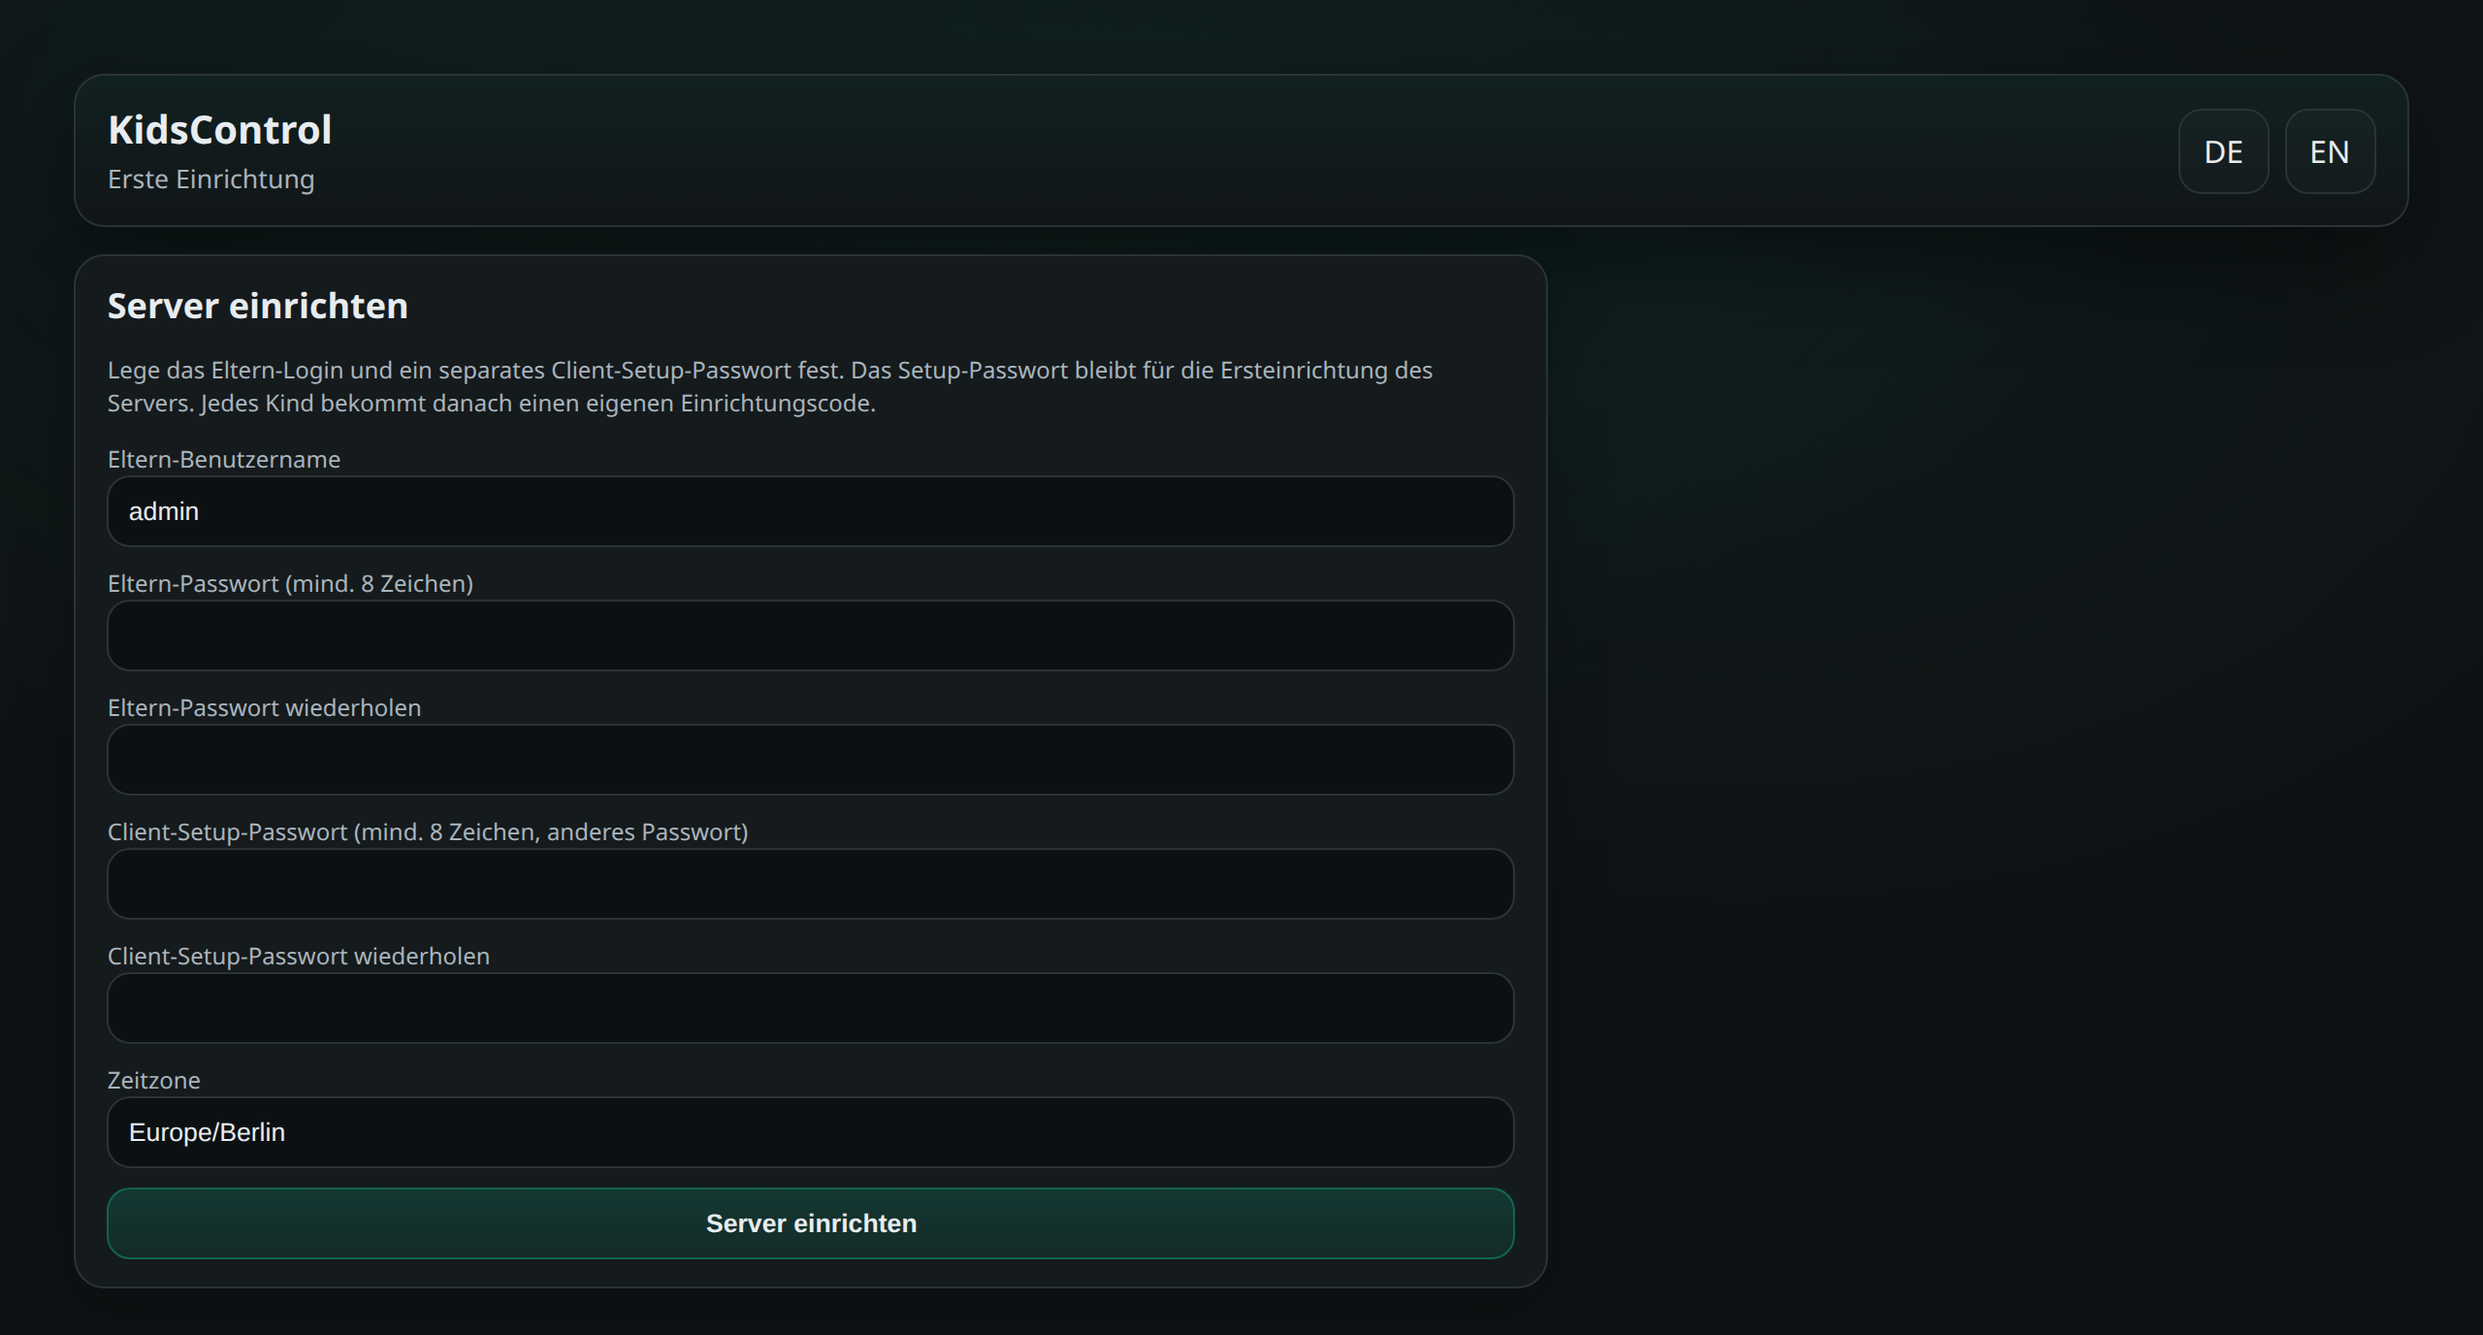
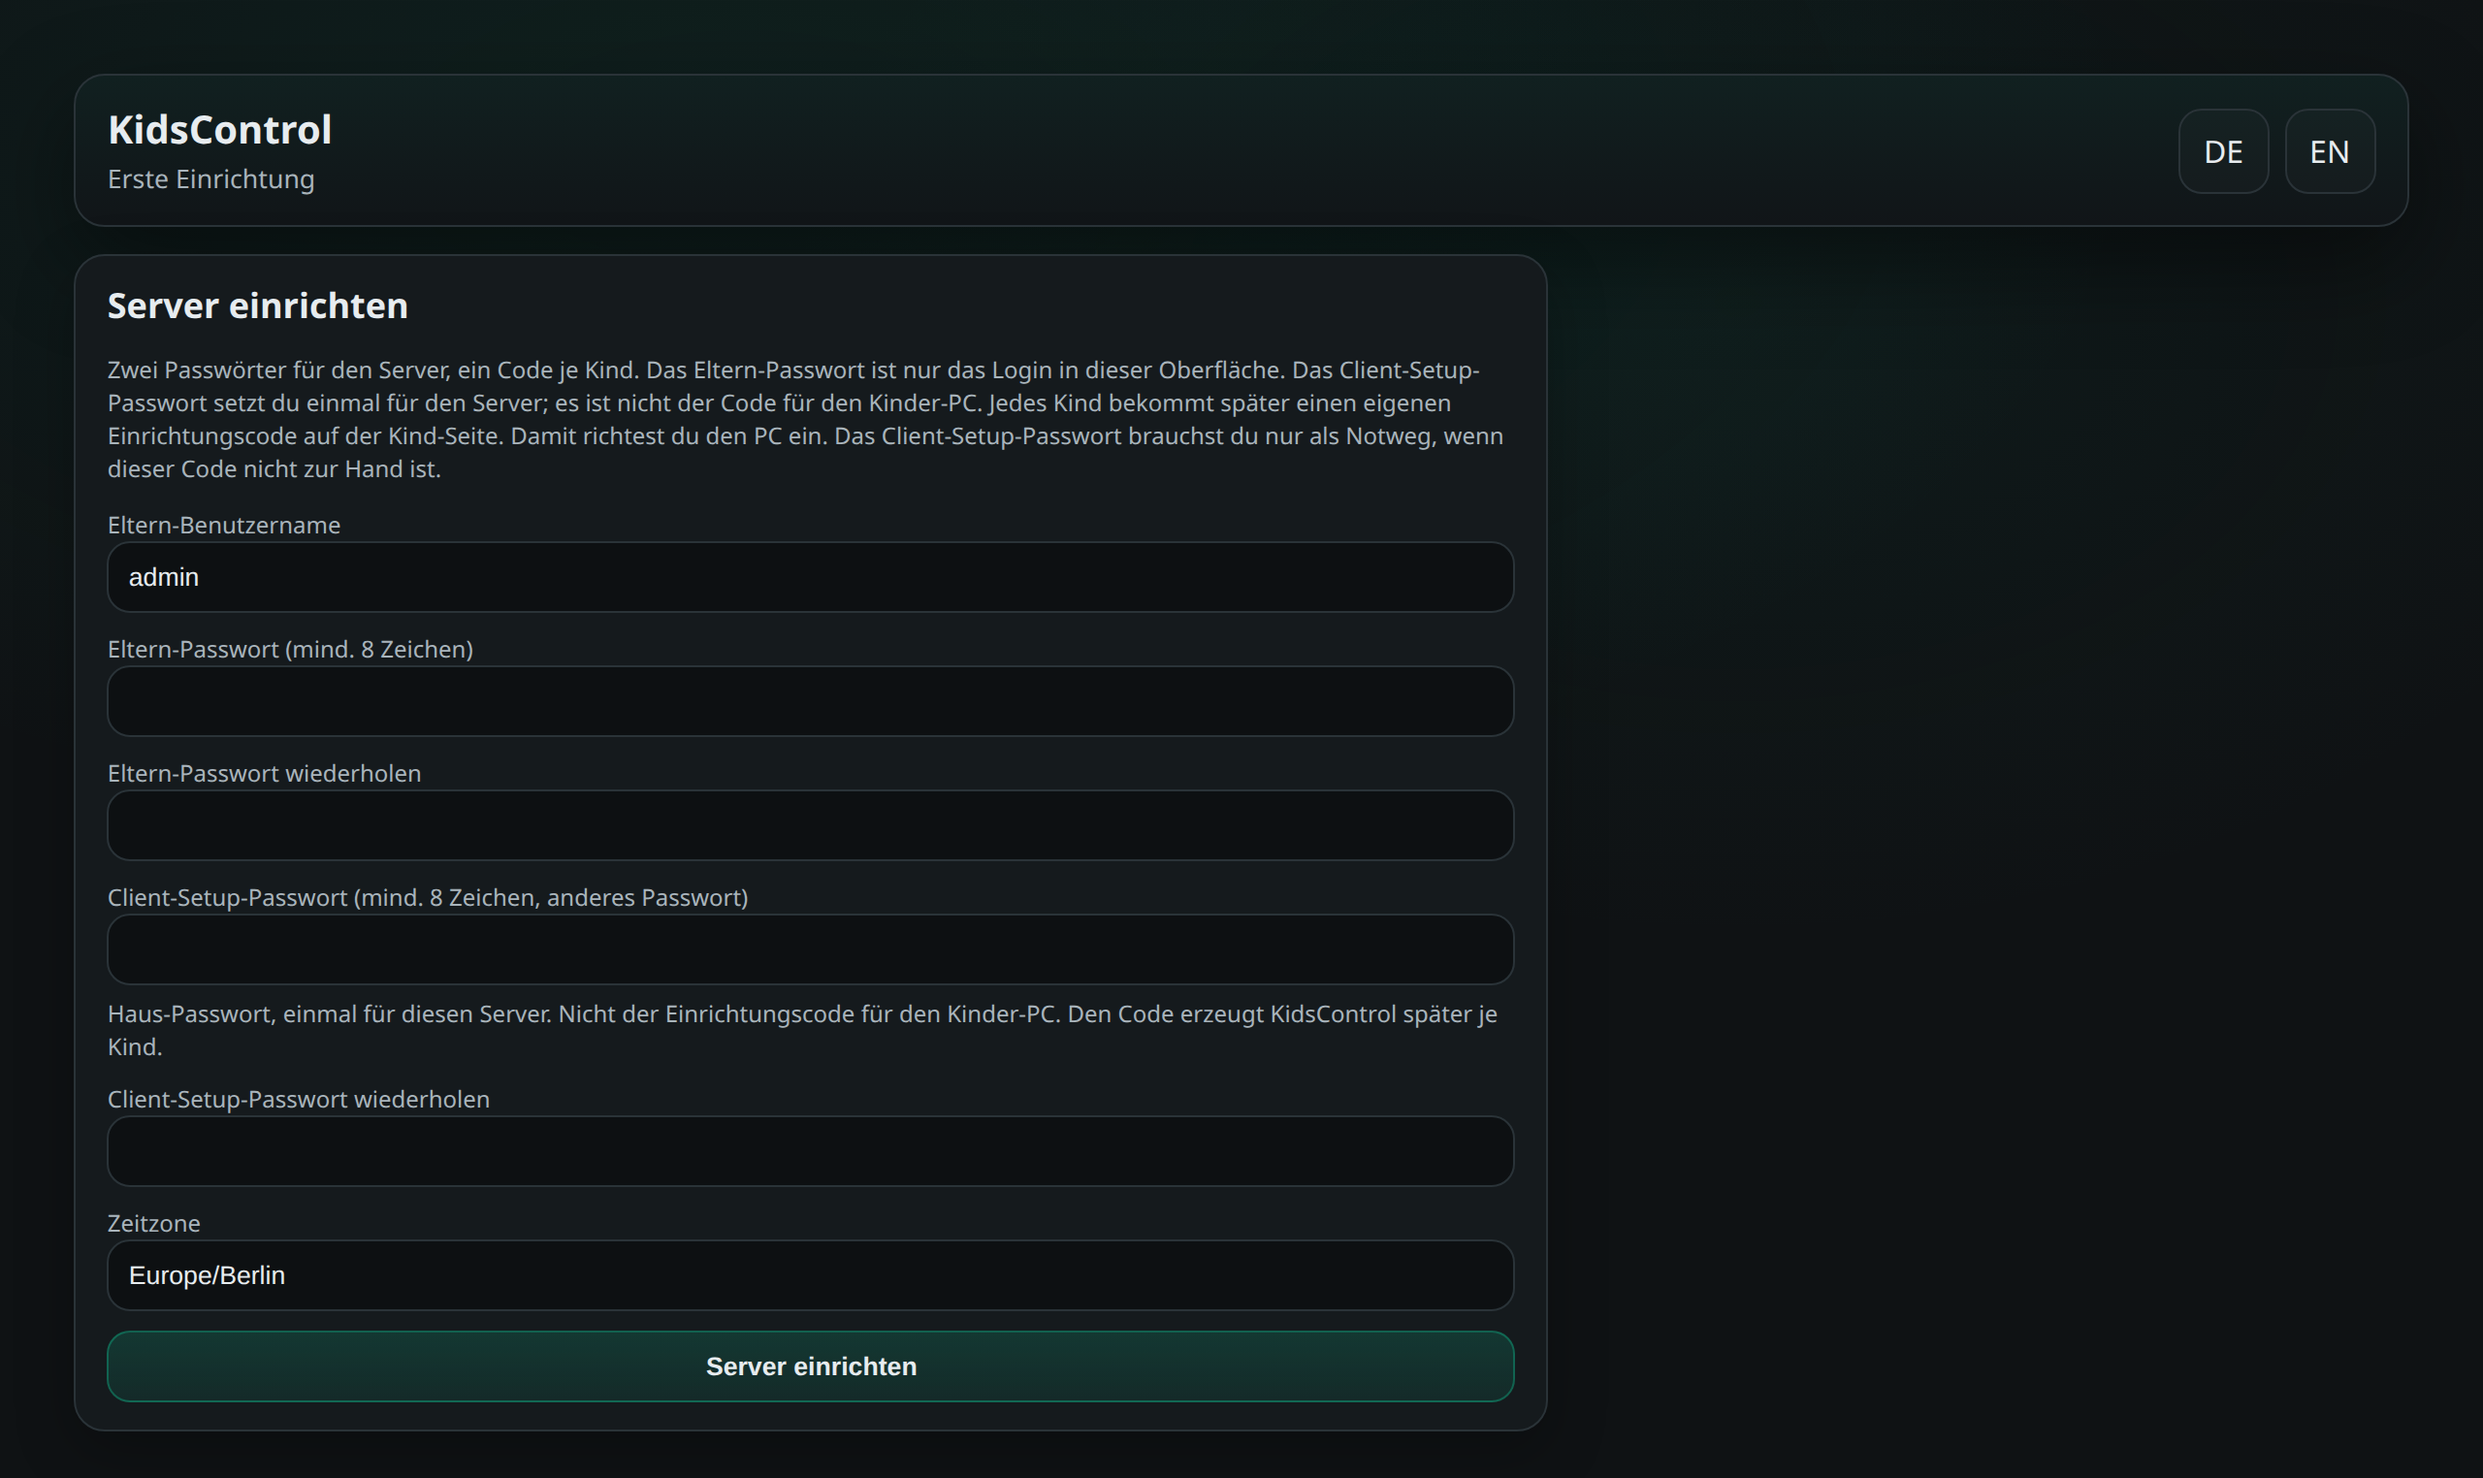
Spell out parent password, household setup password, and per-child code. (#17)
The first-run page, child page, README, and setup docs now say the client setup password is a one-time household secret, not the enrollment code used on the child PC.

diff --git a/app/i18n.py b/app/i18n.py
@@ -13,18 +13,19 @@ STRINGS: dict[str, dict[str, str]] = {
         "sign_in": "Anmelden",
         "setup_title": "Server einrichten",
         "setup_sub": "Erste Einrichtung",
-        "setup_intro": "Lege das Eltern-Login und ein separates Client-Setup-Passwort fest. Das Setup-Passwort bleibt für die Ersteinrichtung des Servers. Jedes Kind bekommt danach einen eigenen Einrichtungscode.",
+        "setup_intro": "Zwei Passwörter für den Server, ein Code je Kind. Das Eltern-Passwort ist nur das Login in dieser Oberfläche. Das Client-Setup-Passwort setzt du einmal für den Server; es ist nicht der Code für den Kinder-PC. Jedes Kind bekommt später einen eigenen Einrichtungscode auf der Kind-Seite. Damit richtest du den PC ein. Das Client-Setup-Passwort brauchst du nur als Notweg, wenn dieser Code nicht zur Hand ist.",
         "admin_user": "Eltern-Benutzername",
         "admin_password": "Eltern-Passwort (mind. 8 Zeichen)",
         "admin_password_repeat": "Eltern-Passwort wiederholen",
         "setup_password": "Client-Setup-Passwort (mind. 8 Zeichen, anderes Passwort)",
+        "setup_password_hint": "Haus-Passwort, einmal für diesen Server. Nicht der Einrichtungscode für den Kinder-PC. Den Code erzeugt KidsControl später je Kind.",
         "setup_password_repeat": "Client-Setup-Passwort wiederholen",
         "timezone": "Zeitzone",
         "setup_submit": "Server einrichten",
         "setup_done_title": "Einrichtung gespeichert",
         "setup_done_sub": "Neu starten",
         "setup_done_body": "Starte den Server neu, damit das Sitzungsgeheimnis aus der Konfiguration geladen wird. Danach kannst du dich mit dem Eltern-Passwort anmelden.",
-        "setup_done_hint": "Lege danach ein Kind an. Auf der Kind-Seite steht ein einzelner Befehl für den Kinder-PC.",
+        "setup_done_hint": "Lege danach ein Kind an. Der Kinder-PC nimmt den Einrichtungscode von der Kind-Seite, nicht das Client-Setup-Passwort.",
         "dashboard": "Dashboard",
         "audit": "Protokoll",
         "logout": "Logout",
@@ -132,7 +133,7 @@ STRINGS: dict[str, dict[str, str]] = {
         "details": "Details",
         "no_audit": "Noch keine Einträge.",
         "client_setup_title": "Kinder-PC einrichten",
-        "client_setup_intro": "Auf dem Kinder-PC im Ordner client diesen einen Befehl ausführen. Linux installiert OpenSSH, erzeugt einen SSH-Schlüssel und überträgt ihn an diesen Server.",
+        "client_setup_intro": "Dieser Einrichtungscode gilt nur für dieses Kind, nicht das Client-Setup-Passwort vom Server. Befehl ausführen oder Datei herunterladen. Unter Linux installiert der Client OpenSSH, erzeugt einen SSH-Schlüssel und überträgt ihn an diesen Server.",
         "client_setup_cmd_label": "Befehl",
         "oneclick_hint": "Oder einmal herunterladen und ausführen. Linux und macOS: bash kidscontrol-setup.sh. Windows: kidscontrol-setup.cmd doppelklicken.",
         "oneclick_linux": "Linux herunterladen",
@@ -185,18 +186,19 @@ STRINGS: dict[str, dict[str, str]] = {
         "sign_in": "Sign in",
         "setup_title": "Set up the server",
         "setup_sub": "First-time setup",
-        "setup_intro": "Choose the parent login and a separate client setup password. Each child then gets its own enrollment code for the PC setup.",
+        "setup_intro": "Two passwords for the server, one code per child. The parent password is only the login for this UI. The client setup password is set once for the server; it is not the code for the child PC. Each child later gets its own enrollment code on the child page. That is what you use to set up the PC. You need the client setup password only as a fallback if that code is not at hand.",
         "admin_user": "Parent username",
         "admin_password": "Parent password (at least 8 characters)",
         "admin_password_repeat": "Repeat parent password",
         "setup_password": "Client setup password (at least 8 characters, different password)",
+        "setup_password_hint": "Household password, set once for this server. Not the enrollment code for the child PC. KidsControl creates that code later, one per child.",
         "setup_password_repeat": "Repeat client setup password",
         "timezone": "Time zone",
         "setup_submit": "Set up server",
         "setup_done_title": "Setup saved",
         "setup_done_sub": "Restart",
         "setup_done_body": "Restart the server so the session secret from the configuration is loaded. Then sign in with the parent password.",
-        "setup_done_hint": "Next, add a child. That page shows a single command to run on the child PC.",
+        "setup_done_hint": "Next, add a child. The child PC uses the enrollment code from that page, not the client setup password.",
         "dashboard": "Dashboard",
         "audit": "Audit log",
         "logout": "Log out",
@@ -304,7 +306,7 @@ STRINGS: dict[str, dict[str, str]] = {
         "details": "Details",
         "no_audit": "No entries yet.",
         "client_setup_title": "Set up the child PC",
-        "client_setup_intro": "On the child PC, from the client folder, run this single command. On Linux it installs OpenSSH, creates an SSH key, and sends that key to this server.",
+        "client_setup_intro": "This enrollment code is only for this child, not the server's client setup password. Run the command or download the file. On Linux the client installs OpenSSH, creates an SSH key, and sends that key to this server.",
         "client_setup_cmd_label": "Command",
         "oneclick_hint": "Or download once and run it. Linux and macOS: bash kidscontrol-setup.sh. Windows: double-click kidscontrol-setup.cmd.",
         "oneclick_linux": "Download Linux",

diff --git a/tests/test_api.py b/tests/test_api.py
@@ -206,6 +206,11 @@ def test_setup_page_and_client_env(client, tmp_path):
     os.environ["KIDSCONTROL_SETUP_PASSWORD"] = ""
     try:
         assert client.get("/login", follow_redirects=False).headers["location"] == "/setup"
+        page = client.get("/setup")
+        assert page.status_code == 200
+        assert "Zwei Passwörter für den Server" in page.text
+        assert "nicht der Code für den Kinder-PC" in page.text
+        assert "Haus-Passwort, einmal für diesen Server" in page.text
         short = client.post(
             "/setup",
             data={
@@ -253,6 +258,7 @@ def test_child_setup_token_language_and_app_edit(client):
     page = client.get("/ui/child/lina")
     assert "python -m kidscontrol_agent.setup" in page.text
     assert "--token" in page.text
+    assert "nicht das Client-Setup-Passwort vom Server" in page.text
     client.post(
         "/ui/child/lina/apps/add",
         data={"label": "Minecraft", "pattern": "minecraft", "match_mode": "contains", "scope": "always"},

diff --git a/app/setup.py b/app/setup.py
@@ -147,7 +147,8 @@ def main(argv: list[str] | None = None) -> int:
         return 2
     print(f"Server eingerichtet. Konfiguration: {path}")
     print("Starte danach: python -m uvicorn app.main:app --host 0.0.0.0 --port 8000")
-    print("Das Client-Setup-Passwort wird auf jedem Kinder-PC beim Einrichten abgefragt.")
+    print("Danach mit dem Eltern-Passwort anmelden und ein Kind anlegen.")
+    print("Den Kinder-PC mit dem Einrichtungscode der Kind-Seite einrichten, nicht mit dem Client-Setup-Passwort.")
     return 0
 
 

diff --git a/app/ui.py b/app/ui.py
@@ -154,6 +154,7 @@ def render_setup(error: str | None = None, lang: str = "de") -> str:
       <div>
         <div class="small">{escape(t(lang, "setup_password"))}</div>
         <input name="setup_password" type="password" required autocomplete="new-password"/>
+        <p class="small" style="margin:6px 0 0 0">{escape(t(lang, "setup_password_hint"))}</p>
       </div>
       <div>
         <div class="small">{escape(t(lang, "setup_password_repeat"))}</div>

diff --git a/README.md b/README.md
@@ -72,10 +72,13 @@ python -m uvicorn app.main:app --host 0.0.0.0 --port 8000
 
 Die Datei `data/server.env` nicht ins Git legen.
 
-Es gibt zwei Server-Passwörter:
+Drei Geheimnisse, die nicht dasselbe sind:
 
-- **Eltern-Passwort** – Login in der Web-Oberfläche
-- **Client-Setup-Passwort** – nur für die Ersteinrichtung des Servers, nicht für jeden Kinder-PC
+- **Eltern-Passwort** – nur das Login in der Web-Oberfläche.
+- **Client-Setup-Passwort** – einmal für den Server, ein Haus-Passwort. Es ist **nicht** der Code für den Kinder-PC. Du brauchst es nur als Notweg, wenn du `kidscontrol_agent.setup` ohne den Kind-Code startest (`--setup-password` und `--child`).
+- **Einrichtungscode je Kind** – entsteht automatisch, wenn du ein Kind anlegst. Damit (Befehl oder One-Click-Download) richtest du den Kinder-PC ein.
+
+Nach der Einrichtung nutzt der Agent nur noch den Geräte-Schlüssel in `client.env`. Weder Eltern-Passwort noch Client-Setup-Passwort noch der Kind-Code laufen im Alltag mit.
 
 ### 2. Kind und Client mit einem Klick
 
@@ -177,10 +180,13 @@ python -m uvicorn app.main:app --host 0.0.0.0 --port 8000
 
 Do not commit `data/server.env`.
 
-Two server passwords:
+Three secrets that are not the same thing:
 
-- **Parent password** – signs in to the web UI
-- **Client setup password** – only for the first server setup, not for every child PC
+- **Parent password** – only the login for the web UI.
+- **Client setup password** – set once for the server, a household password. It is **not** the code for the child PC. You need it only as a fallback if you run `kidscontrol_agent.setup` without the child code (`--setup-password` and `--child`).
+- **Enrollment code per child** – created automatically when you add a child. That is what you use (command or one-click download) to set up the child PC.
+
+After enrollment the agent only uses the device key in `client.env`. Neither the parent password, nor the client setup password, nor the child code is used in daily operation.
 
 ### 2. One-click child and client
 

diff --git a/docs/CLIENT.md b/docs/CLIENT.md
@@ -23,7 +23,13 @@ cd client
 python -m kidscontrol_agent.setup --server http://SERVER:8000 --token CODE
 ```
 
-Der Code steht nur auf der Kind-Seite. Unter Linux installiert das Setup OpenSSH (`apt-get`, `dnf` oder `pacman`), erzeugt `~/.config/kidscontrol/ssh/id_ed25519`, trägt den öffentlichen Schlüssel in `~/.ssh/authorized_keys` ein und sendet den privaten Schlüssel an den Server. Der Server speichert ihn unter `data/keys/` und schaltet SSH für das Linux-Gerät an.
+Der Code steht nur auf der Kind-Seite und gilt nur für dieses Kind. Das Client-Setup-Passwort vom Server ist dafür nicht nötig. Unter Linux installiert das Setup OpenSSH (`apt-get`, `dnf` oder `pacman`), erzeugt `~/.config/kidscontrol/ssh/id_ed25519`, trägt den öffentlichen Schlüssel in `~/.ssh/authorized_keys` ein und sendet den privaten Schlüssel an den Server. Der Server speichert ihn unter `data/keys/` und schaltet SSH für das Linux-Gerät an.
+
+Ohne Kind-Code geht derselbe Schritt als Notweg mit dem Client-Setup-Passwort:
+
+```bash
+python -m kidscontrol_agent.setup --server http://SERVER:8000 --setup-password GEHEIM --child mia
+```
 
 ## Setup
 

diff --git a/docs/SERVER_SETUP.md b/docs/SERVER_SETUP.md
@@ -27,9 +27,11 @@ python -m app.setup
 `python -m app.setup` fragt ab:
 
 - Eltern-Benutzername und Eltern-Passwort (Web-Login)
-- Client-Setup-Passwort (nur für `kidscontrol_agent.setup` auf den Kinder-PCs)
+- Client-Setup-Passwort (Haus-Passwort, einmal für den Server)
 
 Beide Passwörter mindestens 8 Zeichen und nicht gleich. Die Datei `data/server.env` wird mit Rechten `0600` geschrieben.
+
+Das Client-Setup-Passwort ist **nicht** der Code für den Kinder-PC. Jedes Kind bekommt auf der Kind-Seite einen eigenen Einrichtungscode. Damit (oder mit dem One-Click-Download) richtest du den PC ein. Das Client-Setup-Passwort brauchst du nur als Notweg: `python -m kidscontrol_agent.setup --server … --setup-password … --child kurz-id`.
 
 Nicht-interaktiv:
 
@@ -57,7 +59,7 @@ systemd lädt dieselbe Datei, siehe `systemd/kids-control.service`.
 1. Mit dem Eltern-Passwort anmelden
 2. Kind anlegen
 3. Zeitplan, App-Sperren, beobachtete Software setzen
-4. Kinder-PCs mit dem Client-Setup-Passwort einrichten (`docs/CLIENT.md`)
+4. Kinder-PCs mit dem Einrichtungscode der Kind-Seite einrichten (`docs/CLIENT.md`)
 
 ## Healthcheck
 

diff --git a/CHANGELOG.md b/CHANGELOG.md
@@ -6,6 +6,7 @@
 - One-click client downloads on the child page (Linux, macOS, Windows) with server URL and enrollment token
 - Agent bundles at `/setup/agent.tgz` and `/setup/agent.zip`
 - Linux root install also enables the `kidscontrol-agent` systemd service
+- UI and docs spell out parent password vs household client-setup password vs per-child enrollment code
 
 ## 1.1.0
 
